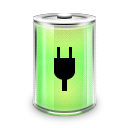
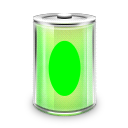
Accelerometer Pending

Changed region(s): [[0.375, 0.3125, 0.6562, 0.75]]

diff --git a/www/js/pluginshop.js b/www/js/pluginshop.js
@@ -13,8 +13,14 @@ function customAlert(msg,title){
       /**BATTERY PLUGIN**/
 function onBatteryStatus(info) {
     //Callback method of Battery Status plugin
-    if (info.isPlugged==true) $("#btp").text(" Phone is Charging and you have "+ info.level +" % charge");//Works if Charging
-    else $("#btp").text(" Phone is on Battery and you have "+ info.level +" % charge");//Works on Battery
+    if (info.isPlugged==true) {
+    $("#btp").html(" Phone is Charging and you have <strong>"+ info.level +" % charge</strong>");//Works if Charging
+    $("#batterypic").attr("src","img/plugged.png");
+  }
+    else {
+    $("#btp").html(" Phone is on Battery and you have <strong>"+ info.level +" % charge</strong>");//Works on Battery
+    $("#batterypic").attr("src","img/unplugged.png");
+  }
     
 }
 
@@ -74,7 +80,10 @@ function deviceCheck(){
     var platform=device.platform;
     var uuid=device.uuid;
     var version=device.version;    
-    $("#dp").html('<strong>Cordova version:</strong><span style="color:#66FFFF">'+ cordova_version+'</span><br/>'+'<strong>Device Model:</strong><span style="color:#3785B8">'+ device_model+'</span><br/>'+'<strong>OS Name:</strong><span style="color:#4DB870">'+ platform+'</span><br/>'+'<strong>UUID:</strong><span style="color:#B288B2">'+ uuid+'</span><br/>'+'<strong>OS version:</strong><span style="color:#669999">'+ version+'</span>');
+    $("#dp").html('<strong>Cordova version:</strong><span style="color:#66FFFF;float: right;text-align: right;">'+ cordova_version+'</span><br/>'+'<strong>Device Model:</strong><span style="color:#3785B8;float: right;text-align: right;">'+ device_model+'</span><br/>'+'<strong>OS Name:</strong><span style="color:#4DB870;float: right;text-align: right;">'+ platform+'</span><br/>'+'<strong>UUID:</strong><span style="color:#B288B2;float: right;text-align: right;">'+ uuid+'</span><br/>'+'<strong>OS version:</strong><span style="color:#669999;float: right;text-align: right;">'+ version+'</span>');
+    if (platform=="iOS") $("#ospic").attr("src","img/ios.png");
+    else if (platform=="Android") $("#ospic").attr("src","img/android.png");
+    else $("#ospic").remove();
 }
 
       /**GEOLOCATION PLUGIN**/
@@ -188,9 +197,8 @@ function onDataCameraSuccess(imageData){
 //Used to save the Picture took in Camera as FileURL
 function onFileCameraSuccess(imageURI){
     var pic=document.getElementById("picbox");
-    pic.src="";
-    toastAlert("Picture saved in " +imageURI);
-    pic.src = imageURI;
+    pic.src = imageURI;    
+    toastAlert("Picture saved in " +imageURI);    
 }
 
 
@@ -281,10 +289,10 @@ $(document).ready(function(){
         });
 
       //Used for Opening the Gallery
-      $("#tkpicgallery").tap(function(){        
+      /*$("#tkpicgallery").tap(function(){        
         navigator.camera.getPicture(onFileCameraSuccess, onCameraFail,
      {sourceType: Camera.PictureSourceType.SAVEDPHOTOALBUM});
-      });
+      }); */
 
       $("#tkpiclibrary").tap(function(){
 navigator.camera.getPicture(onFileCameraSuccess, onCameraFail,

diff --git a/www/index.html b/www/index.html
@@ -118,7 +118,10 @@
         	<h1>Battery Plugin</h1>
         	</header>
         	<article data-role="content">
-          <p id="btp"></p>        	
+          <p id="btp"></p>
+          <center>
+          <img src="" width="200px" height="200px" id="batterypic"> 
+          </center>      	
         	</article>
         	<footer data-role="footer" data-position="fixed" data-theme="c">
                 <div data-role="navbar" id="navigation">
@@ -158,7 +161,7 @@
         			<input type="button" id="tkpicbasebtn" value="Data URL" />
         			<input type="button" id="tkpicfileurlbtn" value="File URL" />              		
               <input type="button" id="tkpiclibrary" value="Open PhotoLibrary" />
-        			<img src="" id="picbox" style="width:200px;height:200px">
+        			<img src="" id="picbox" style="width:200px;height:200px;max-width:100%;max-height:100%">
         		</center>
         	</article>
         	<footer data-role="footer" data-position="fixed" data-theme="c">
@@ -249,12 +252,15 @@
           </header>
           <article data-role="content">
             <p id="dp"></p>
+            <center>
+            <img src="" width="200px" height="200px" id="ospic" />
+            </center>
           </article>
           <footer data-role="footer" data-position="fixed" data-theme="c">
                 <div data-role="navbar" id="navigation">
                     <ul>
                         <li><a href="#landingpage" data-icon="home" data-iconpos="top" id="homenav">Home</a></li>
-                        <li><a href="#" data-icon="info" data-iconpos="top">Info</a></li>
+                        <li><a href="#" data-icon="info" data-iconpos="top" class="informer">Info</a></li>
                     </ul>
                 </div>
             </footer>

diff --git a/www/css/compass.css b/www/css/compass.css
@@ -34,3 +34,10 @@
 div.ui-slider-switch {
     width: 46%;
 }
+
+.creative{
+    border: 2px solid #a1a1a1;
+    padding: 10px 40px; 
+    background: #dddddd;
+    border-radius: 25px;
+}
